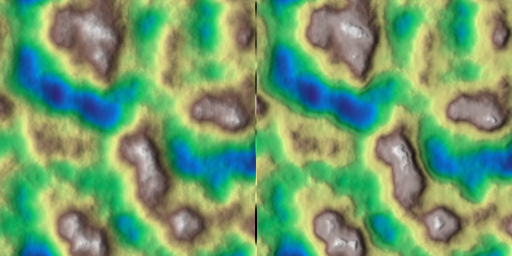
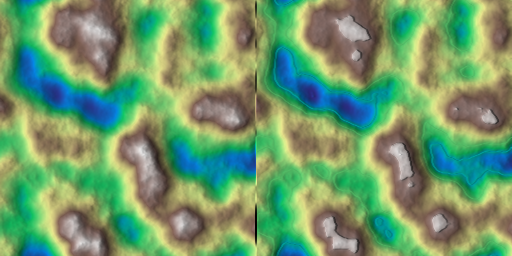
Change profile function for terrace filter

diff --git a/HighMap/include/highmap/filters.hpp b/HighMap/include/highmap/filters.hpp
@@ -2109,7 +2109,7 @@ void steepen_convective(Array       &array,
  * @param seed        Seed value for random number generation.
  * @param nlevels     Number of terrace levels to apply.
  * @param gain        Gain factor for controlling the sharpness of the terrace
- *                    levels.
+ *                    levels, in [0, 1].
  * @param noise_ratio Ratio of noise applied to each terrace level, except the
  *                    first and last.
  * @param p_noise     Optional noise array to introduce additional variation per
@@ -2131,7 +2131,7 @@ void steepen_convective(Array       &array,
 void terrace(Array       &array,
              uint         seed,
              int          nlevels,
-             float        gain = 4.f,
+             float        gain = 0.9f,
              float        noise_ratio = 0.f,
              const Array *p_noise = nullptr,
              float        vmin = 0.f,
@@ -2151,7 +2151,7 @@ void terrace(Array       &array,
  * @param p_mask      Optional mask array. If provided, blends the terrace
  *                    effect with original values based on the mask.
  * @param gain        Gain factor for controlling the sharpness of the terrace
- *                    levels.
+ *                    levels, in [0, 1].
  * @param noise_ratio Ratio of noise applied to each terrace level, except the
  *                    first and last.
  * @param p_noise     Optional noise array to introduce additional variation per
@@ -2181,7 +2181,7 @@ void terrace(Array       &array,
              uint         seed,
              int          nlevels,
              const Array *p_mask,
-             float        gain = 4.f,
+             float        gain = 0.9f,
              float        noise_ratio = 0.f,
              const Array *p_noise = nullptr,
              float        vmin = 0.f,

diff --git a/HighMap/src/filters/filters.cpp b/HighMap/src/filters/filters.cpp
@@ -1253,8 +1253,11 @@ void terrace(Array       &array,
     y = (y - levels[n]) / (levels[n + 1] - levels[n]);
 
     // apply gain
-    y = y < 0.5 ? 0.5f * std::pow(2.f * y, gain)
-                : 1.f - 0.5f * std::pow(2.f * (1.f - y), gain);
+    float gain_clamped = std::clamp(gain, 0.f, 1.f);
+
+    y -= std::atan(-gain_clamped * std::sin(2.f * M_PI * y) /
+                   (1.f - gain_clamped * std::cos(2.f * M_PI * y))) /
+         M_PI;
 
     // rescale back to original ammplitude interval
     return y * (levels[n + 1] - levels[n]) + levels[n] - noise;

diff --git a/examples/ex_terrace/ex_terrace.cpp b/examples/ex_terrace/ex_terrace.cpp
@@ -9,7 +9,7 @@ int main(void)
   hmap::Array z = hmap::noise_fbm(hmap::NoiseType::PERLIN, shape, res, seed++);
 
   int   nlevels = 5;
-  float gain = 2.f;
+  float gain = 0.9f;
   float noise_ratio = 0.5f;
 
   auto zp = z;
